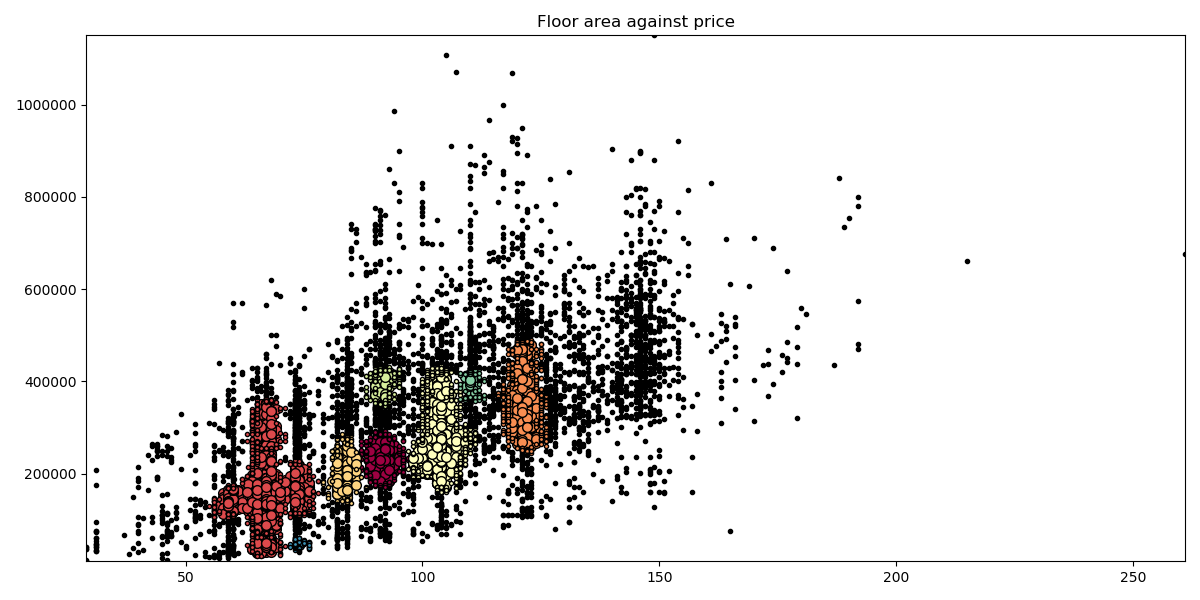
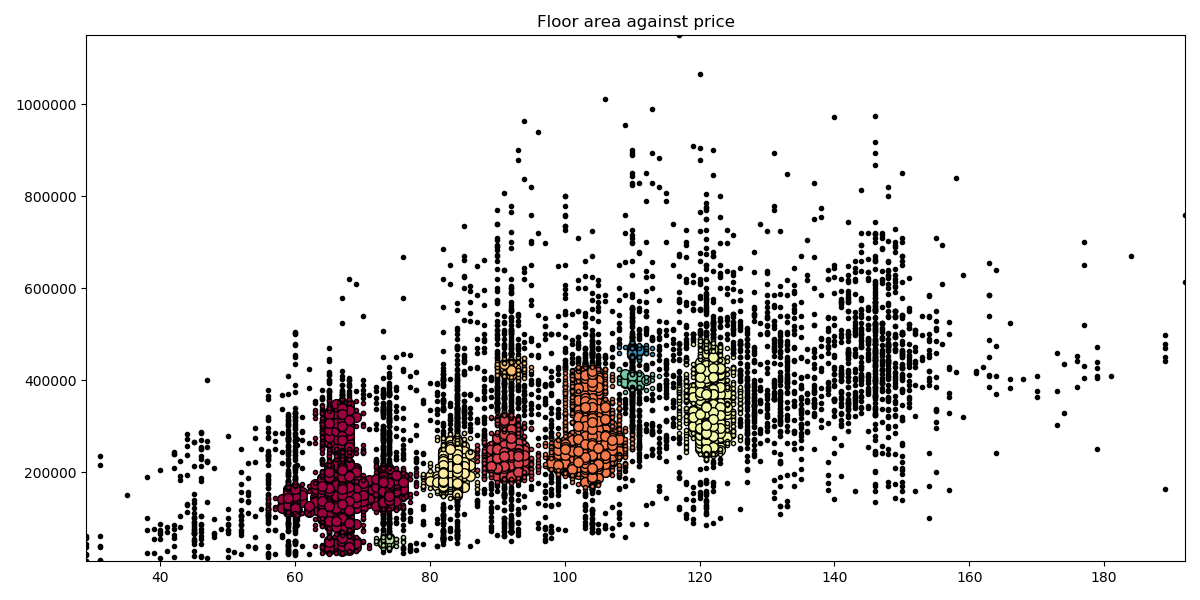
changed dataset + naming

diff --git a/clusteringDBSCAN.py b/clusteringDBSCAN.py
@@ -63,7 +63,7 @@ def cluster_dbscan(data,unscaled_data,title):
 
 
 # Get the dataset to be used for clustering
-housing_data = np.genfromtxt("Original Data/Master File/masterA.csv",delimiter=",")
+housing_data = np.genfromtxt("Original Data/Master File/kmeansA.csv",delimiter=",")
 
 # #shuffle data
 idx = np.arange(housing_data.shape[0])
@@ -71,13 +71,12 @@ np.random.shuffle(idx)
 housing_data = housing_data[idx]
 
 # first column is nan so we drop it
-square_area = housing_data[1:10000,6]
-resale_price = housing_data[1:10000,9]
-remaining_lease = housing_data[1:10000,8]
-remaining_lease = 2019-remaining_lease
+square_area = housing_data[1:10000,0]
+resale_price = housing_data[1:10000,2]
+num_months = housing_data[1:10000,-2]
 
 # DBScan clustering
 area_price,unscaled_area_price = create_data(square_area,resale_price)
 cluster_dbscan(area_price,unscaled_area_price,"Floor area against price")
-lease_price,unscaled_lease_price = create_data(remaining_lease,resale_price)
-cluster_dbscan(lease_price,unscaled_lease_price,"Remaining lease against price")
+months_price,unscaled_months_price = create_data(num_months,resale_price)
+cluster_dbscan(months_price,unscaled_months_price,"Months against price")
